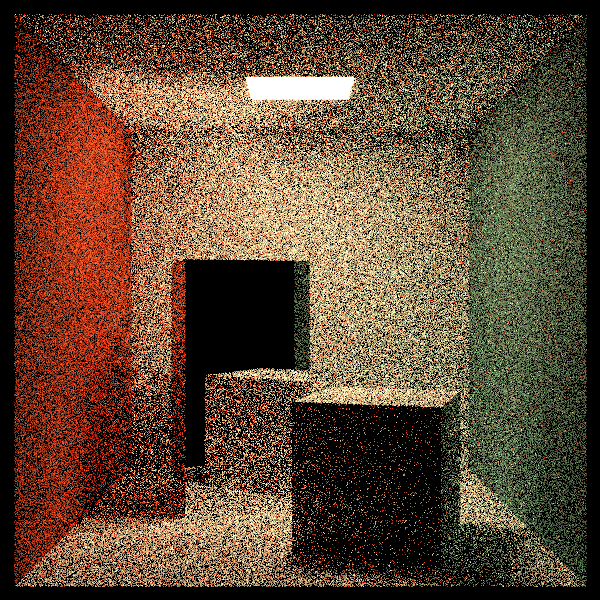
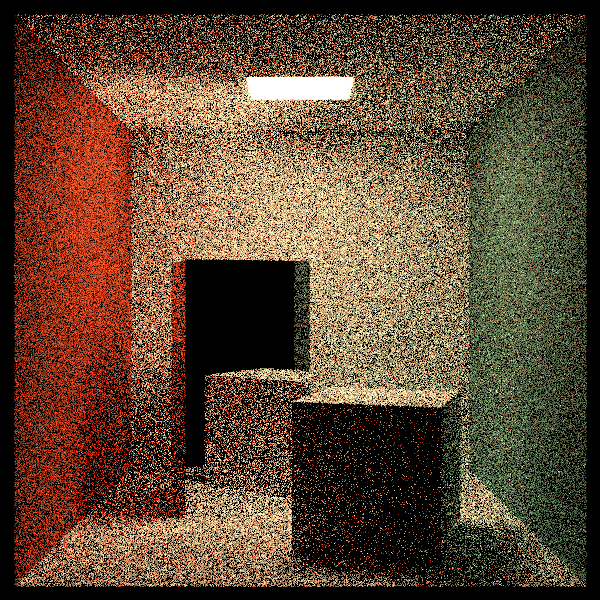
Second part of the migration (switch to Matrix4)

diff --git a/raytracer/src/hittable/operation.rs b/raytracer/src/hittable/operation.rs
@@ -9,7 +9,7 @@ pub struct TransformHittable<H: Hittable> {
 
 impl<H: Hittable> TransformHittable<H> {
     pub fn new(inner: H, transform: Mat44) -> Self {
-        let inverse = transform.inverse();
+        let inverse = transform.try_inverse().unwrap();
         TransformHittable {
             inner,
             transform,
@@ -38,7 +38,7 @@ impl<H: Hittable> Hittable for TransformHittable<H> {
             for dy in &points {
                 for dz in &points {
                     let corner = Pt3::new(dx.x, dy.y, dz.z);
-                    let trans_corner = self.transform.mul_point(corner);
+                    let trans_corner = self.transform.transform_point(&corner);
 
                     if min_x.map(|m| trans_corner.x < m).unwrap_or(true) {
                         min_x = Some(trans_corner.x);
@@ -75,16 +75,16 @@ impl<H: Hittable> Hittable for TransformHittable<H> {
 
     fn is_hit_by(&self, ray: Ray, tmin: FloatTy, tmax: Option<FloatTy>) -> Option<HitRecord> {
         let new_ray = Ray::new(
-            self.inverse.mul_point(ray.origin),
-            self.inverse.mul_direction(ray.direction),
+            self.inverse.transform_point(&ray.origin),
+            self.inverse.transform_vector(&ray.direction),
         );
 
         if let Some(record) = self.inner.is_hit_by(new_ray, tmin, tmax) {
             Some(HitRecord::new(
                 new_ray,
                 record.t,
-                self.transform.mul_point(record.p),
-                self.transform.mul_direction(record.normal),
+                self.transform.transform_point(&record.p),
+                self.transform.transform_vector(&record.normal),
                 record.u,
                 record.v,
                 record.material,

diff --git a/raytracer_cli/src/default_scene.rs b/raytracer_cli/src/default_scene.rs
@@ -304,14 +304,14 @@ pub fn cornell_box() -> SceneDescription {
     )));
 
     let box1 = make_box(Pt3::origin(), Pt3::new(165.0, 330.0, 165.0), mirror.clone());
+    let transform1 = Mat44::new_translation(&Vec3::new(265.0, 0.0, 295.0))
+        * Mat44::from_axis_angle(&Vec3::y_axis(), (15.0 as FloatTy).to_radians());
 
-    let transform1 = Mat44::translation(Vec3::new(265.0, 0.0, 295.0))
-        * Mat44::rotation(Vec3::new(0.0, 1.0, 0.0), (15.0 as FloatTy).to_radians());
     objects.push(Box::new(box1.transform(transform1)));
 
     let box2 = make_box(Pt3::origin(), Pt3::new(165.0, 165.0, 165.0), white);
-    let transform2 = Mat44::translation(Vec3::new(130.0, 0.0, 65.0))
-        * Mat44::rotation(Vec3::new(0.0, 1.0, 0.0), (-18.0 as FloatTy).to_radians());
+    let transform2 = Mat44::new_translation(&Vec3::new(130.0, 0.0, 65.0))
+        * Mat44::from_axis_angle(&Vec3::y_axis(), (-18.0 as FloatTy).to_radians());
     objects.push(Box::new(box2.transform(transform2)));
 
     let declarations = hittable::build_bvh(objects);

diff --git a/raytracer/src/lib.rs b/raytracer/src/lib.rs
@@ -1,11 +1,10 @@
-use nalgebra::{Point3, Vector3};
+use nalgebra::{Matrix4, Point3, Vector3};
 use rand;
 use rand::prelude::*;
 
 mod camera;
 mod color;
 pub mod hittable;
-mod mat44;
 pub mod material;
 mod ray;
 pub mod texture;
@@ -14,11 +13,11 @@ mod utils;
 pub type FloatTy = f64;
 pub type Vec3 = Vector3<FloatTy>;
 pub type Pt3 = Point3<FloatTy>;
+pub type Mat44 = Matrix4<FloatTy>;
 
 pub use crate::camera::*;
 pub use crate::color::*;
 pub use crate::hittable::{Hittable, HittableExt};
-pub use crate::mat44::*;
 pub use crate::ray::*;
 pub use crate::texture::Texture;
 
